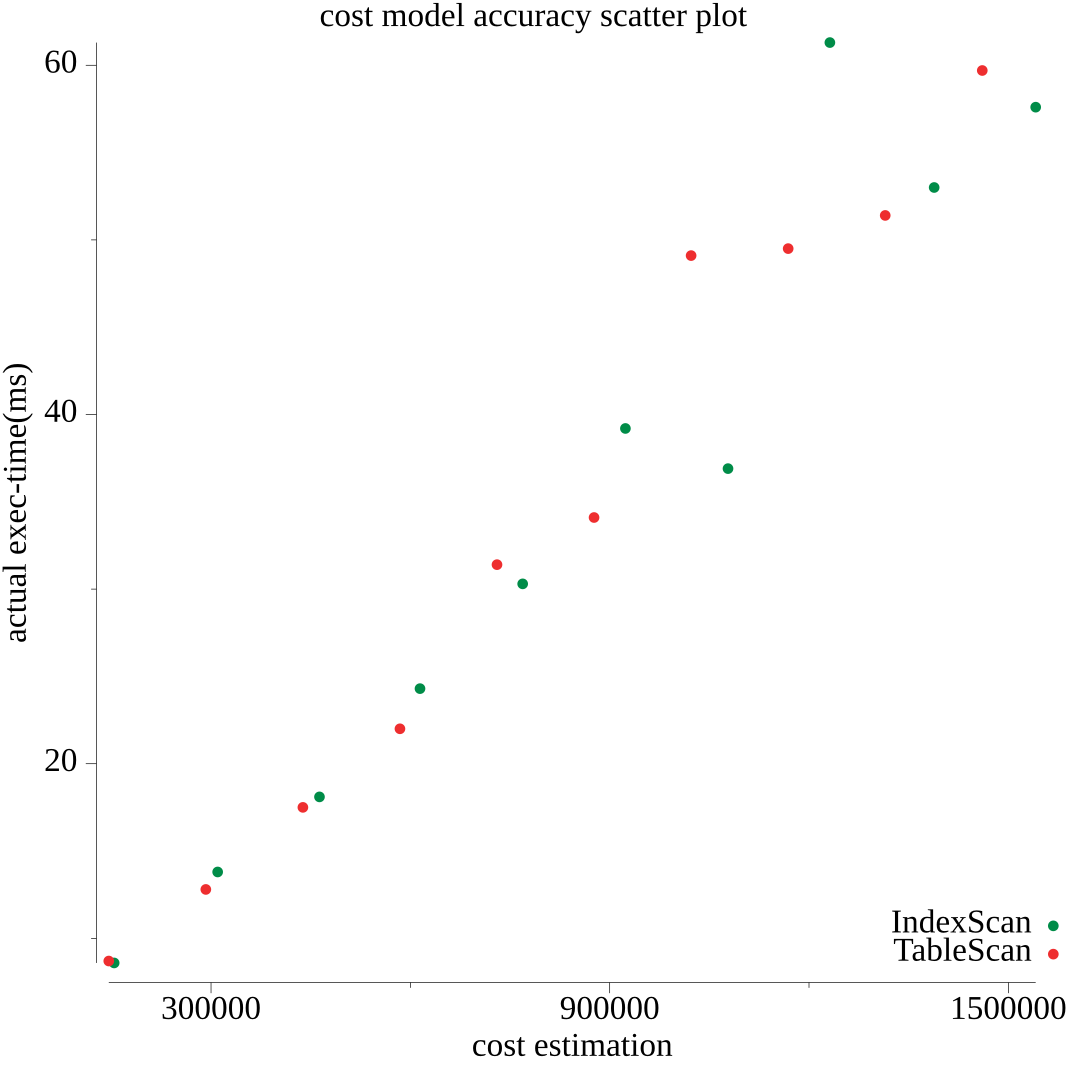
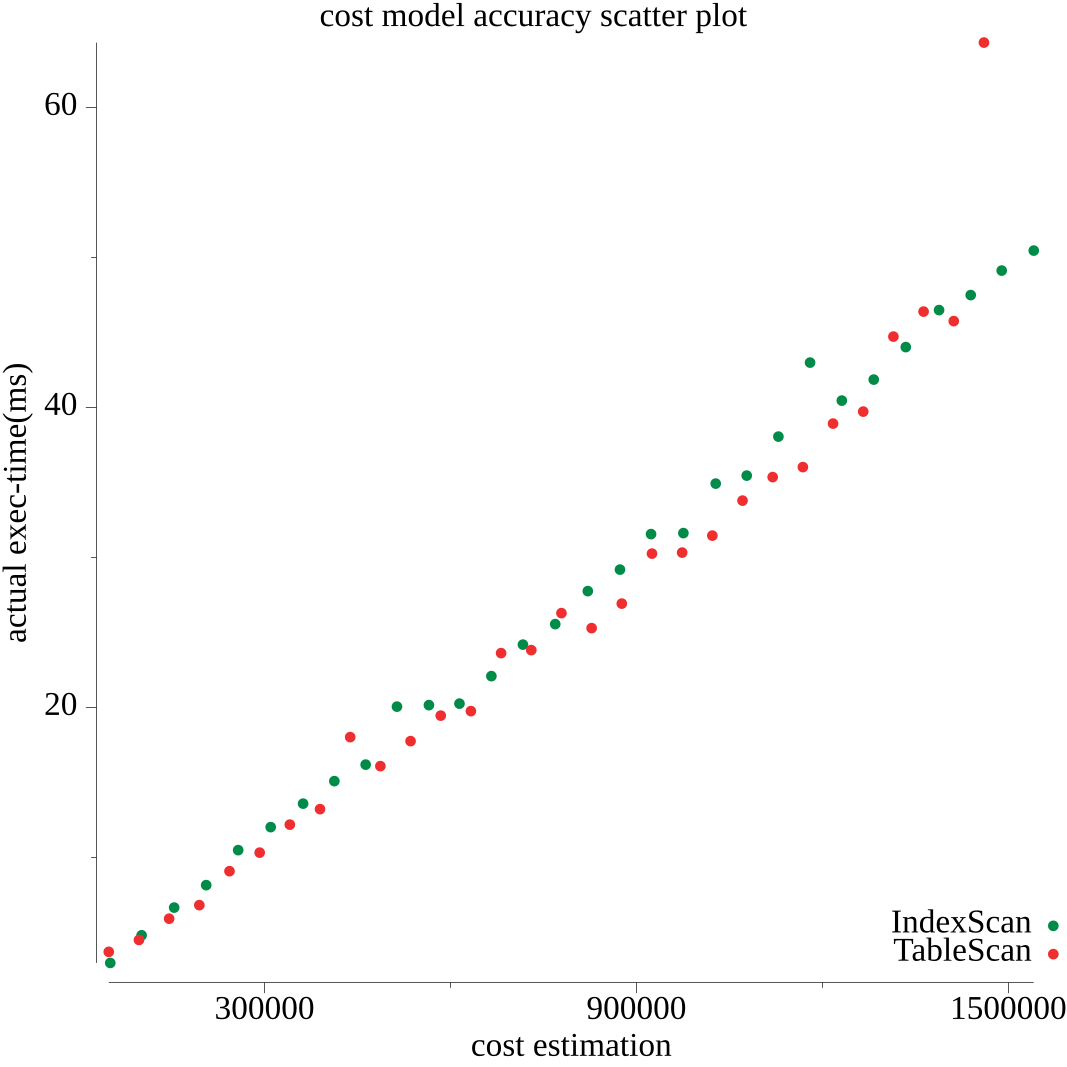
fixup

diff --git a/cost/costcali_regression.go b/cost/costcali_regression.go
@@ -96,8 +96,8 @@ func regressionCostFactors(rs CaliRecords) CostFactors {
 	gorgonia.Read(pred, &predicated)
 
 	diff := must(gorgonia.Abs(must(gorgonia.Sub(pred, yNode))))
-	//relativeDiff := must(gorgonia.Div(diff, yNode))
-	loss := must(gorgonia.Mean(diff))
+	relativeDiff := must(gorgonia.Div(diff, yNode))
+	loss := must(gorgonia.Mean(relativeDiff))
 	_, err := gorgonia.Grad(loss, costFactor)
 	if err != nil {
 		panic(fmt.Sprintf("Failed to backpropagate: %v", err))

diff --git a/cost/costeval.go b/cost/costeval.go
@@ -34,7 +34,7 @@ func CostEval() {
 		//{"tpch1g", "tpch", "calibrated", 30, 2, 2000},
 		//{"synthetic", "synthetic", "original", 10, 1, 3000},
 		//{"synthetic", "synthetic", "calibrated", 10, 1, 3000},
-		{"synthetic", "synthetic", "calibrating", 15, 1, 3000},
+		{"synthetic", "synthetic", "calibrating", 30, 3, 3000},
 	}
 
 	for _, opt := range opts {
